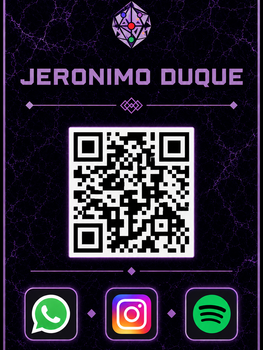
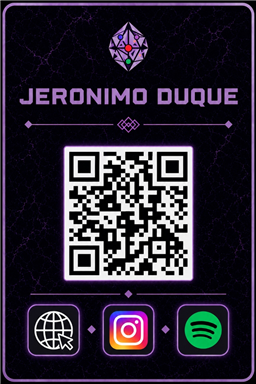
Sexto Commit - 19 de Agosto

diff --git a/8ThWall/src/open-url-button.ts b/8ThWall/src/open-url-button.ts
@@ -4,7 +4,7 @@ import * as ecs from '@8thwall/ecs'
  * Enlaces Oficiales de Redes Sociales
  */
 export const SOCIAL_LINKS = {
-  whatsapp: 'https://wa.me/573154445000',
+  whatsapp: 'https://winmedik.com/',
   instagram: 'https://www.instagram.com/jeronimoduque423/',
   spotify: 'https://open.spotify.com/user/o0gt0327bv62udbgzyjh0qomt?si=076634e60fe84ede',
 }
